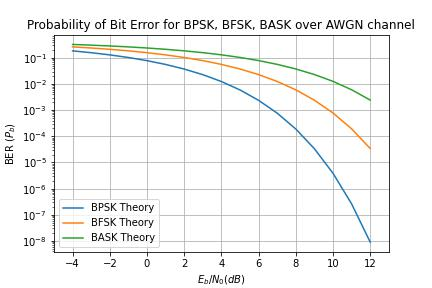
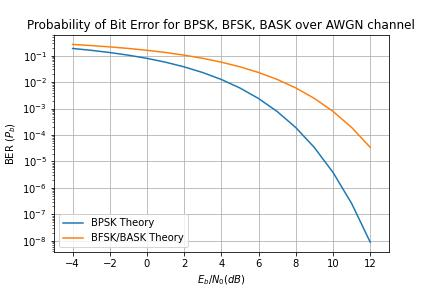
last

Changed region(s): [[0.0602, 0.125, 0.9028, 0.875], [0.0602, 0.4375, 0.1204, 0.5]]

diff --git a/Dat_PSK/i.py b/Dat_PSK/i.py
@@ -1,0 +1,23 @@
+#BER
+import numpy as np #for numerical computing
+import matplotlib.pyplot as plt #for plotting functions
+from scipy.special import erfc #erfc/Q function
+
+#---------Input Fields------------------------
+EbN0dBs = np.arange(start=-10,stop = 13, step = 1) # Eb/N0 range in dB for simulation
+
+Pe_bpsk = 0.5*erfc(np.sqrt(10**(EbN0dBs/10)))
+Pe_bfsk_bask = 0.5*erfc(np.sqrt(10**(EbN0dBs/10)/2))
+
+fig, ax = plt.subplots(nrows=1,ncols = 1)
+ax.semilogy(EbN0dBs,Pe_bpsk,marker='',linestyle='-',label='BPSK Theory')
+ax.semilogy(EbN0dBs,Pe_bfsk_bask,marker='',linestyle='-',label='BFSK/BASK Theory')
+# ax.semilogy(EbN0dBs,Pe_bask,marker='',linestyle='-',label='BASK Theory')
+
+ax.set_xlabel('$E_b/N_0(dB)$');ax.set_ylabel('BER ($P_b$)')
+ax.set_title('Probability of Bit Error for BPSK, BFSK, BASK over AWGN channel')
+ax.set_xlim(-11,13);ax.grid(True);
+ax.legend();
+plt.savefig('D:\Miniproject_Ce\Dat_PSK\pic\ls_ber.jpg')
+
+plt.show()
